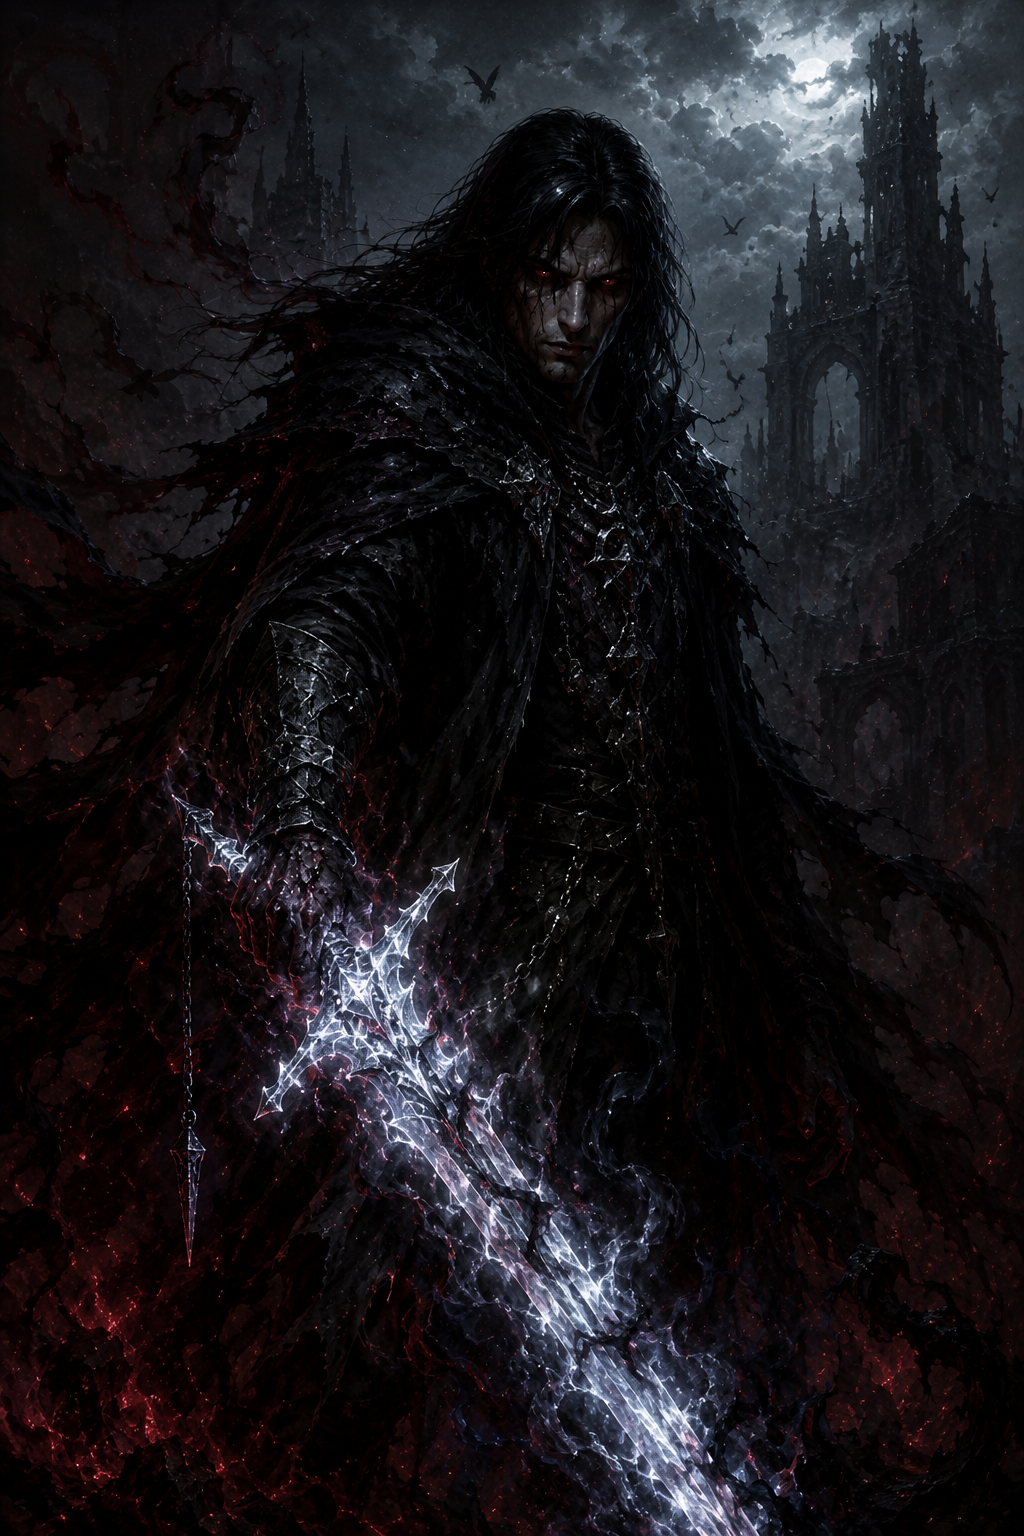
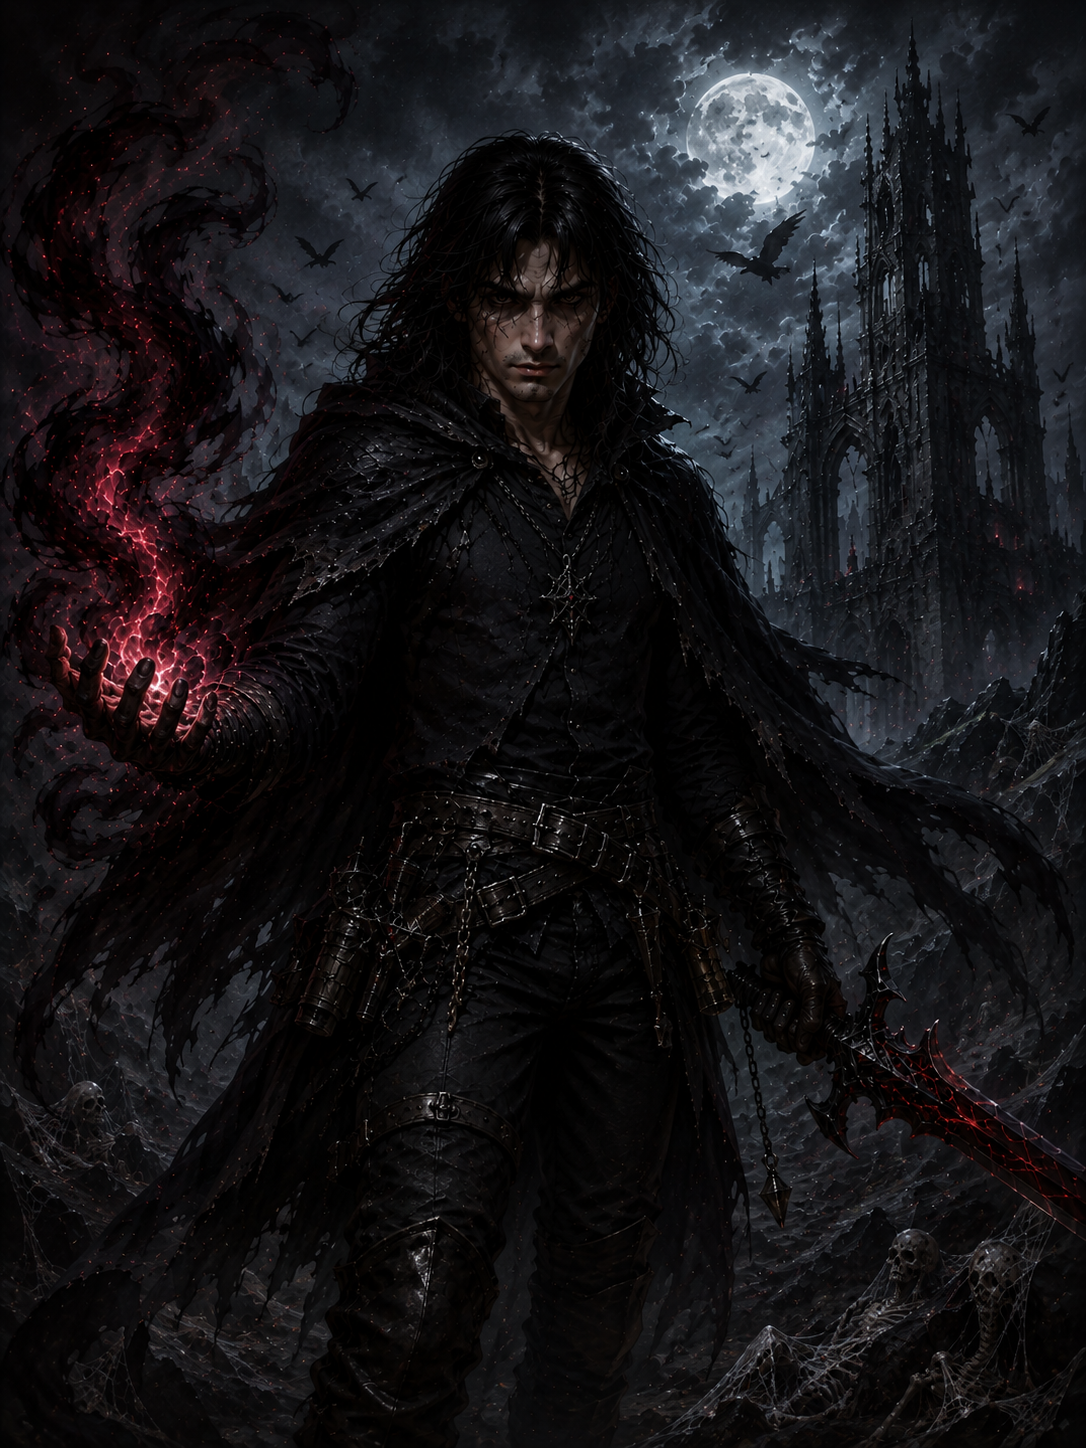
feat: card-level flip for boss/event, uniform shop card heights, hero art
- Boss/event cardback flip now rotates the whole framed card (frame moved onto the flip faces) instead of only its inner content.
- Shop cards use grid-auto-rows:1fr so every card has the same height.
- Update Orphen portrait; add Requiem portrait art.

diff --git a/src/ui/styles.css b/src/ui/styles.css
@@ -1209,9 +1209,11 @@ body {
 .overlay__ending-type--bad         { color: #e7a89a; }
 
 /* ===== Diálogo de derrota de jefe ===== */
-/* Contenedor de la card que gira completa al derrotar al jefe. */
+/* Contenedor de la card que gira completa al derrotar al jefe.
+   Sustituye a .overlay__card: es la propia carta (con su marco) la que rota. */
 .boss-defeat {
   width: 100%;
+  max-width: 480px;
   perspective: 1600px;
 }
 
@@ -1617,12 +1619,10 @@ body {
   gap: 24px;
   padding: 32px 24px;
 }
+/* Sin marco propio: el marco lo da la cara del flip (.event-flip__face). */
 .event-card {
-  border: 1px solid rgba(201, 145, 63, 0.4);
-  border-radius: 14px;
-  background: linear-gradient(180deg, rgba(50, 32, 14, 0.7), rgba(20, 12, 5, 0.85));
-  box-shadow: 0 12px 40px rgba(0, 0, 0, 0.6);
   padding: 28px 32px;
+  background: transparent;
 }
 .event-card__title {
   font-family: 'Cinzel Decorative', serif;
@@ -2413,6 +2413,7 @@ body {
 .shop-grid {
   display: grid;
   grid-template-columns: repeat(auto-fill, minmax(220px, 1fr));
+  grid-auto-rows: 1fr; /* todas las filas a la misma altura → cards uniformes */
   gap: 14px;
 }
 .shop-card {
@@ -3440,9 +3441,16 @@ body {
 .event-flip.is-flipped .event-flip__inner {
   transform: rotateY(180deg);
 }
+/* Cada cara es una carta completa con su marco; así el flip se ve a nivel de la
+   card y no de su contenido interno. */
 .event-flip__face {
   backface-visibility: hidden;
   -webkit-backface-visibility: hidden;
+  border: 1px solid rgba(201, 145, 63, 0.4);
+  border-radius: 14px;
+  background: linear-gradient(180deg, rgba(50, 32, 14, 0.7), rgba(20, 12, 5, 0.85));
+  box-shadow: 0 12px 40px rgba(0, 0, 0, 0.6);
+  overflow: hidden;
 }
 /* La cara trasera (carta real) fluye y define la altura; la frontal (cardback)
    se superpone en absoluto. */
@@ -3453,8 +3461,6 @@ body {
 .event-flip__front {
   position: absolute;
   inset: 0;
-  border-radius: 14px;
-  overflow: hidden;
 }
 .event-cardback {
   width: 100%;
@@ -3486,9 +3492,16 @@ body {
   transform-style: preserve-3d;
   animation: bossFlipIn 2s cubic-bezier(0.45, 0.05, 0.3, 1) forwards;
 }
+/* Cada cara es una carta completa con marco (antes lo daba .overlay__card),
+   por eso el flip se ve a nivel de la card y no de su contenido. */
 .boss-defeat__flip-face {
   backface-visibility: hidden;
   -webkit-backface-visibility: hidden;
+  border: 1px solid rgba(201, 145, 63, 0.4);
+  border-radius: 12px;
+  background: linear-gradient(180deg, rgba(40, 26, 12, 0.95), rgba(15, 9, 4, 0.97));
+  box-shadow: 0 20px 60px rgba(0, 0, 0, 0.7);
+  overflow: hidden;
 }
 .boss-defeat__flip-front {
   position: relative;
@@ -3497,19 +3510,18 @@ body {
   align-items: center;
   gap: 14px;
   width: 100%;
+  padding: 36px;
 }
 .boss-defeat__flip-back {
   position: absolute;
   inset: 0;
   transform: rotateY(180deg);
-  border-radius: 10px;
-  overflow: hidden;
-  background: linear-gradient(175deg, #1e1009 0%, #0d0805 100%);
 }
 .boss-defeat__cardback {
   width: 100%;
   height: 100%;
   object-fit: cover;
+  display: block;
 }
 @keyframes bossFlipIn {
   0%   { transform: rotateY(0deg); }

diff --git a/src/ui/screens/CombatScreen.jsx b/src/ui/screens/CombatScreen.jsx
@@ -337,19 +337,17 @@ export default function CombatScreen() {
       {/* Overlays de fin */}
       {combat.phase === 'victory' && (
         <div className="overlay">
-          <div className="overlay__card">
-            {combat.kind === 'boss'
-              ? <BossDefeatedDialogue combat={combat} onFinish={finish} />
-              : (
-                <>
-                  <div className="overlay__sub">VICTORIA</div>
-                  <h2 className="overlay__title">El camino queda libre</h2>
-                  <p className="overlay__text">Botín: {combat.loot?.gold ?? 0} de oro.</p>
-                  <button className="btn btn--primary" onClick={finish}>Reclamar botín</button>
-                </>
-              )
-            }
-          </div>
+          {combat.kind === 'boss'
+            ? <BossDefeatedDialogue combat={combat} onFinish={finish} />
+            : (
+              <div className="overlay__card">
+                <div className="overlay__sub">VICTORIA</div>
+                <h2 className="overlay__title">El camino queda libre</h2>
+                <p className="overlay__text">Botín: {combat.loot?.gold ?? 0} de oro.</p>
+                <button className="btn btn--primary" onClick={finish}>Reclamar botín</button>
+              </div>
+            )
+          }
         </div>
       )}
       {combat.phase === 'defeat' && (
